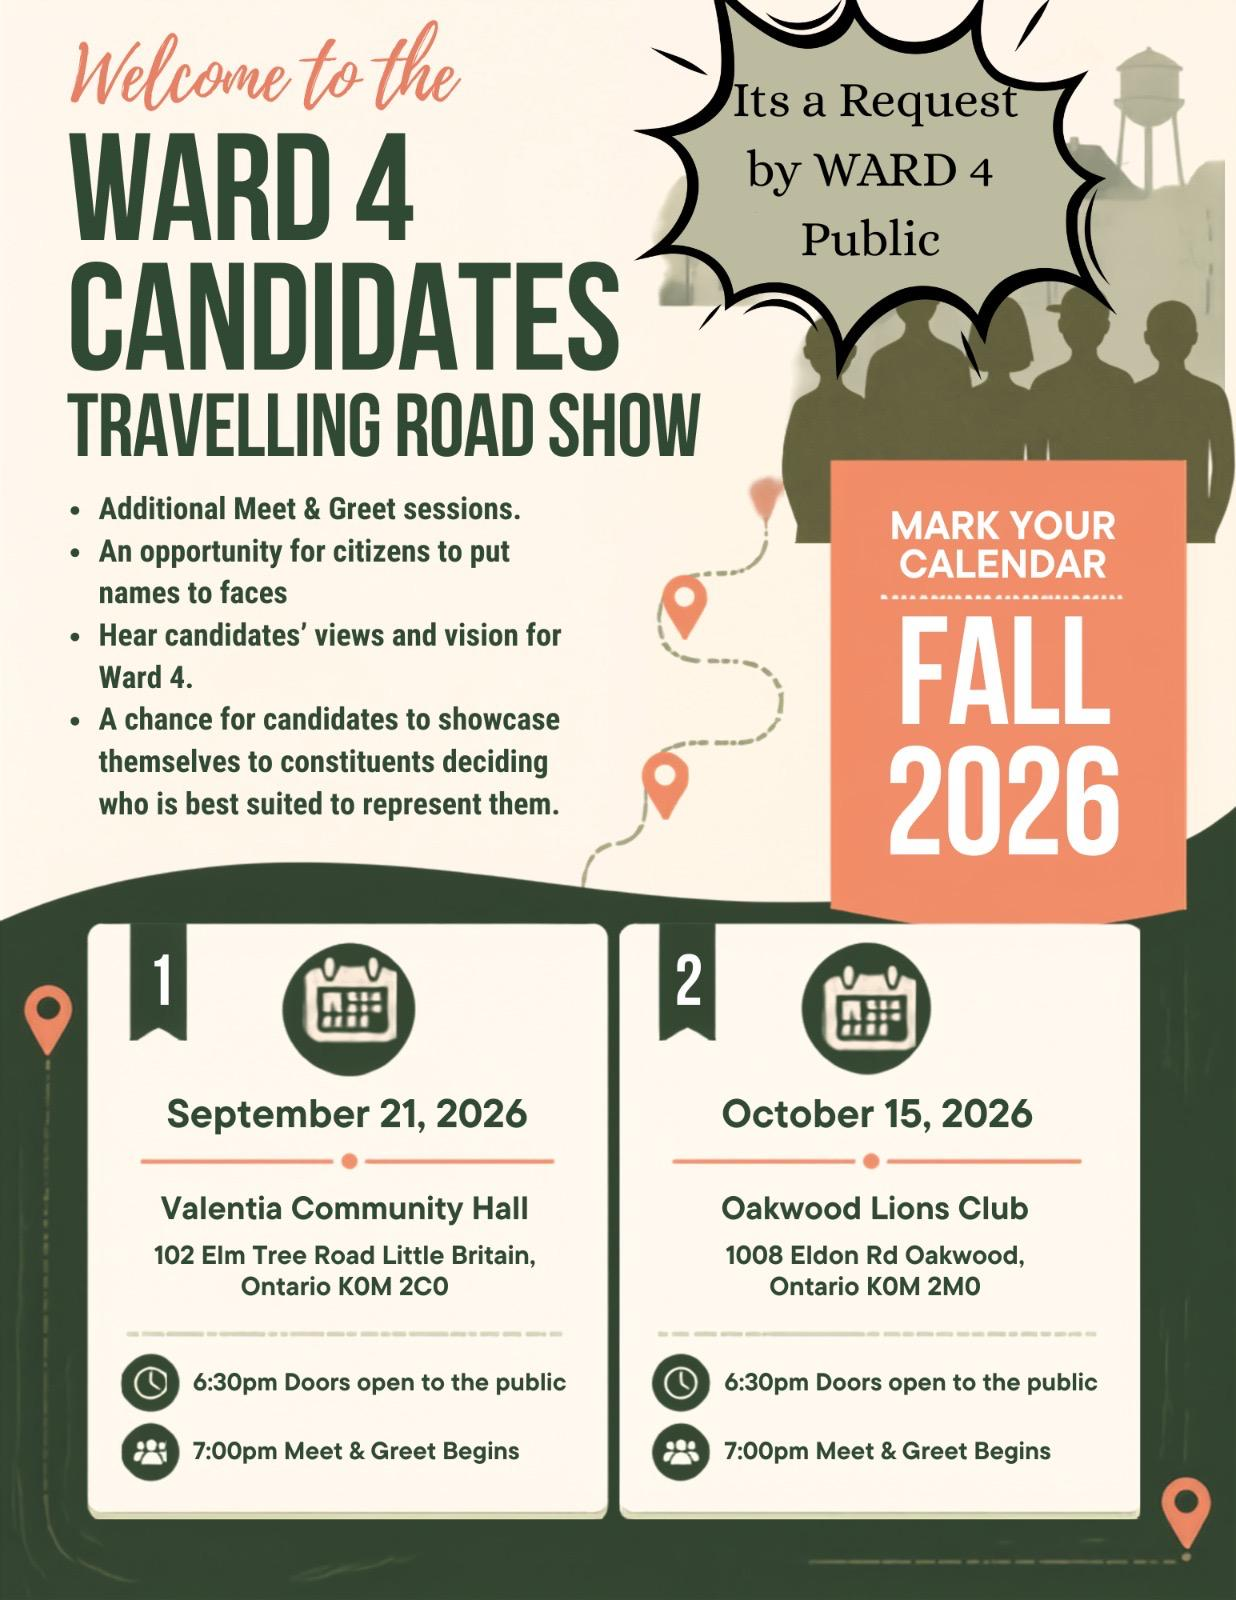
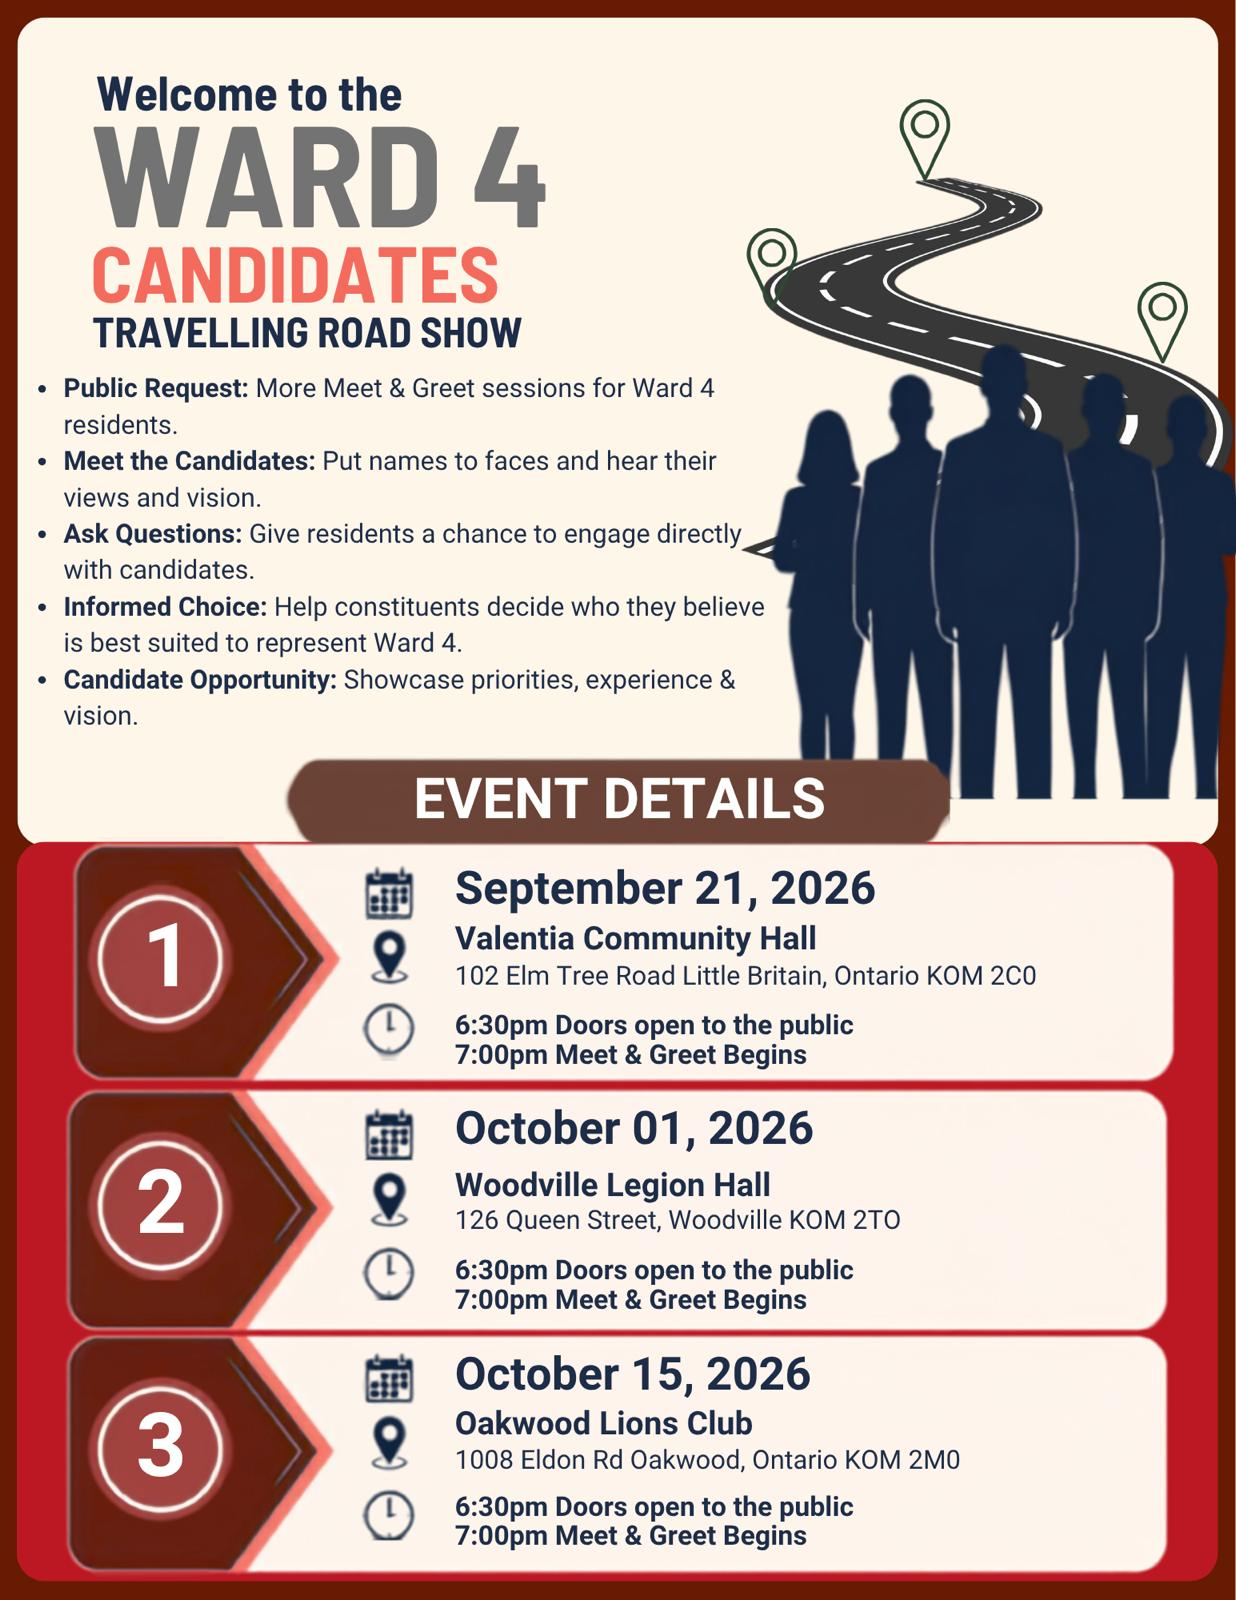
Add files via upload

diff --git a/index.html b/index.html
@@ -912,18 +912,23 @@ footer{
             <h2>Upcoming Events</h2>
         </div>
         <div style="max-width:620px;margin:36px auto 0;border-radius:14px;overflow:hidden;box-shadow:0 6px 28px rgba(0,0,0,0.12);">
-            <img src="event1.jpeg" alt="Ward 4 Candidates Travelling Road Show — September 21 & October 15, 2026" style="width:100%;height:auto;display:block;">
+            <img src="event1.jpeg" alt="Ward 4 Candidates Travelling Road Show — September 21, October 1 & October 15, 2026" style="width:100%;height:auto;display:block;">
         </div>
-        <div style="max-width:620px;margin:20px auto 0;display:flex;gap:12px;justify-content:center;flex-wrap:wrap;">
-            <div style="flex:1;min-width:220px;background:var(--lake-deep);color:#fff;border-radius:10px;padding:16px 20px;text-align:center;">
-                <p style="margin:0 0 4px;font-size:.8rem;opacity:.7;text-transform:uppercase;letter-spacing:.06em;">Stop 1</p>
-                <p style="margin:0 0 2px;font-weight:700;font-size:1rem;">Sept 21, 2026 · 6:30 PM</p>
-                <p style="margin:0;font-size:.9rem;opacity:.85;">Valentia Community Hall<br>102 Elm Tree Rd, Little Britain</p>
+        <div style="max-width:680px;margin:20px auto 0;display:flex;gap:12px;justify-content:center;flex-wrap:wrap;">
+            <div style="flex:1;min-width:180px;background:var(--lake-deep);color:#fff;border-radius:10px;padding:16px 18px;text-align:center;">
+                <p style="margin:0 0 4px;font-size:.75rem;opacity:.7;text-transform:uppercase;letter-spacing:.06em;">Stop 1</p>
+                <p style="margin:0 0 2px;font-weight:700;font-size:.95rem;">Sept 21, 2026 · 6:30 PM</p>
+                <p style="margin:0;font-size:.85rem;opacity:.85;">Valentia Community Hall<br>102 Elm Tree Rd, Little Britain</p>
             </div>
-            <div style="flex:1;min-width:220px;background:var(--lake-deep);color:#fff;border-radius:10px;padding:16px 20px;text-align:center;">
-                <p style="margin:0 0 4px;font-size:.8rem;opacity:.7;text-transform:uppercase;letter-spacing:.06em;">Stop 2</p>
-                <p style="margin:0 0 2px;font-weight:700;font-size:1rem;">Oct 15, 2026 · 6:30 PM</p>
-                <p style="margin:0;font-size:.9rem;opacity:.85;">Oakwood Lions Club<br>1008 Eldon Rd, Oakwood</p>
+            <div style="flex:1;min-width:180px;background:var(--lake-deep);color:#fff;border-radius:10px;padding:16px 18px;text-align:center;">
+                <p style="margin:0 0 4px;font-size:.75rem;opacity:.7;text-transform:uppercase;letter-spacing:.06em;">Stop 2</p>
+                <p style="margin:0 0 2px;font-weight:700;font-size:.95rem;">Oct 1, 2026 · 6:30 PM</p>
+                <p style="margin:0;font-size:.85rem;opacity:.85;">Woodville Legion Hall<br>126 Queen St, Woodville</p>
+            </div>
+            <div style="flex:1;min-width:180px;background:var(--lake-deep);color:#fff;border-radius:10px;padding:16px 18px;text-align:center;">
+                <p style="margin:0 0 4px;font-size:.75rem;opacity:.7;text-transform:uppercase;letter-spacing:.06em;">Stop 3</p>
+                <p style="margin:0 0 2px;font-weight:700;font-size:.95rem;">Oct 15, 2026 · 6:30 PM</p>
+                <p style="margin:0;font-size:.85rem;opacity:.85;">Oakwood Lions Club<br>1008 Eldon Rd, Oakwood</p>
             </div>
         </div>
     </div>
